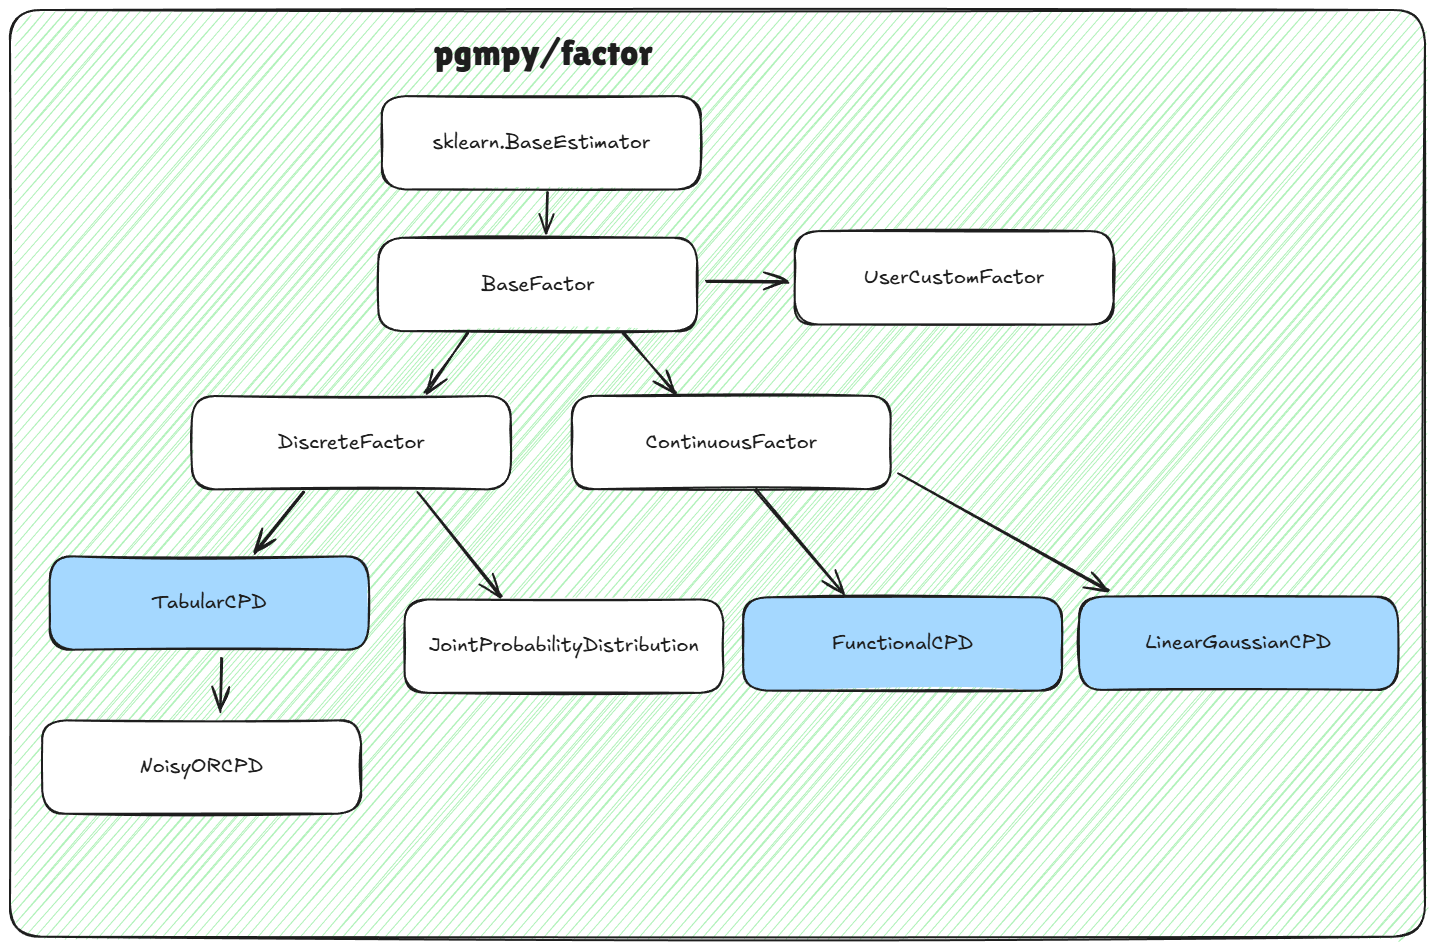
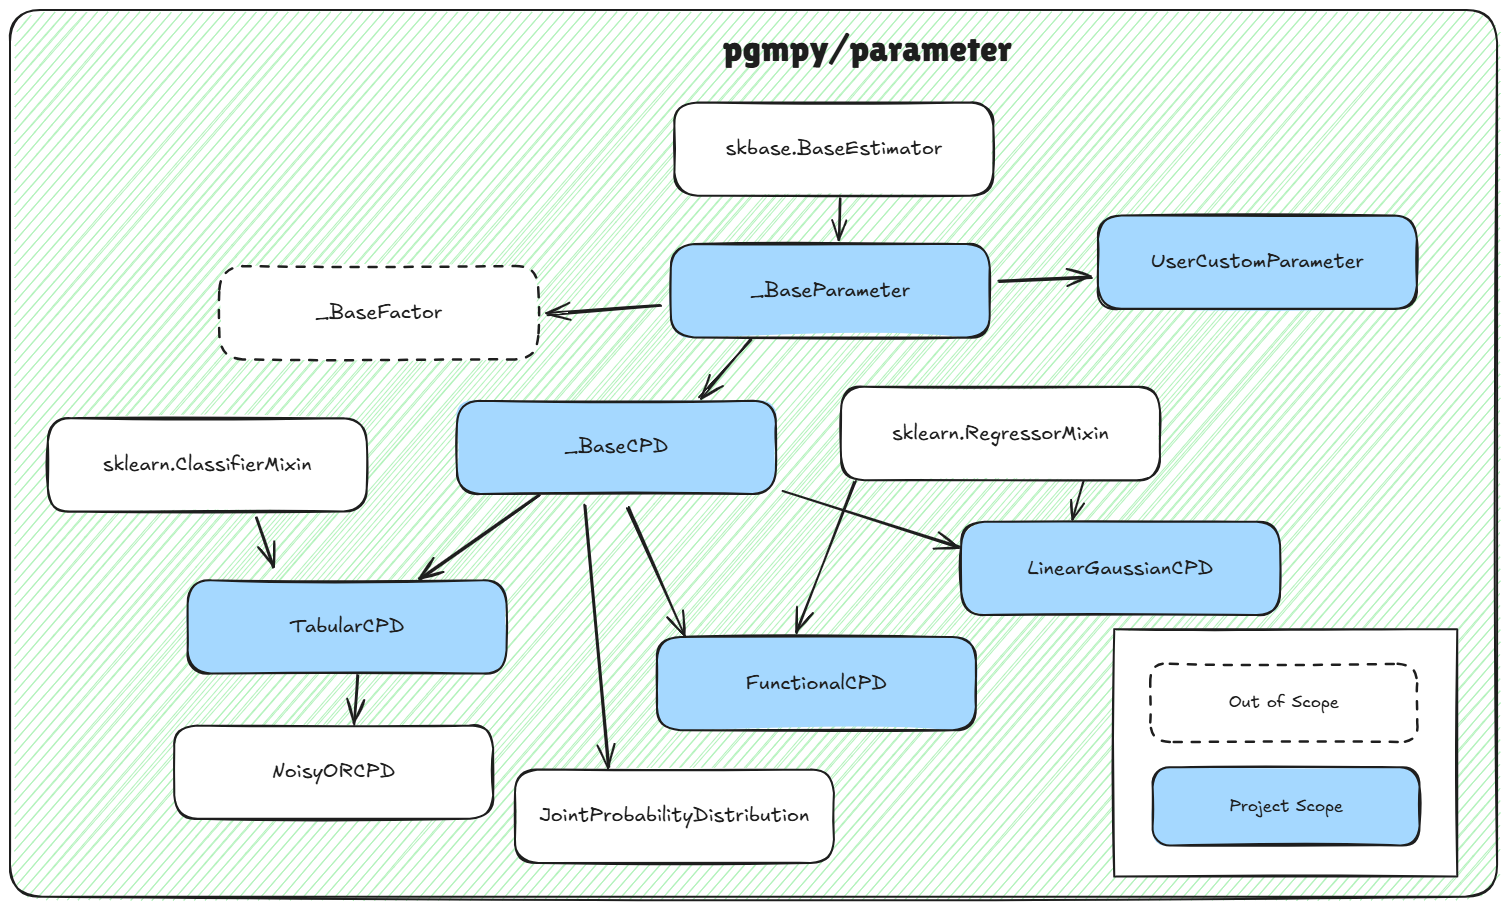
Update Proposal v3

diff --git a/2_Extending FunctionalCPD for Flexible Parameter Learning/[003]2_Extending FunctionalCPD for Flexible Parameter Learning.md b/2_Extending FunctionalCPD for Flexible Parameter Learning/[003]2_Extending FunctionalCPD for Flexible Parameter Learning.md
@@ -8,13 +8,13 @@ Contributors: @daehyun99
 
 ### summary
 
-![12](/2_Extending%20FunctionalCPD%20for%20Flexible%20Parameter%20Learning/99_Images/12.excalidraw.png)
+Starting with the conclusion and plan:
 
-Starting with the conclusion:
-* Implement `_FactorMixin` and improve internal compatibility between Factor and CPD by storing `factor` and `cpd` information in `self._factors`.
-* Have `BaseFactor` inherit from `skbase.BaseEstimator` to improve compatibility with skpro models.
-* Refactoring `TabularCPD`, `LineargaussianCPD`, `FunctionalCPD`
-* Implement `HybridEstimator` for fitting with sklearn, skpro model
+1. Implement `_ParameterMixin` and improve internal compatibility between Factor and CPD by storing `factor` and `cpd` information in `self._parameters`.
+2. Implement `_BaseParameter` inherit from `skbase.BaseEstimator` to improve compatibility with skpro models.
+3. Implement `paramter/TabularCPD`, `paramter/LineargaussianCPD`, `paramter/FunctionalCPD`
+4. Add warning message in `factors/TabularCPD`, `factors/LineargaussianCPD`, `factors/FunctionalCPD`
+5. Implement `HybridEstimator` for fitting with sklearn, skpro model.
 
 ### Introduction
 
@@ -35,71 +35,79 @@ Starting with the conclusion:
 
 ##### Proposed Solution
 
-1. Consider how to store factors, CPDs, and skpro models. (Implement `_FactorMixin`) <br>
+1. Consider how to store Factors, CPDs, and skpro models. (Implement `_ParameterMixin`) <br>
 2. Externally, consider compatibility with skpro models.<br>
-3. Consider the parameter learning way. (Implement `HybridEstimator`)
+3. Internally, consider compatibility with pyro.<br>
+4. Consider the parameter learning way. (Implement `HybridEstimator`)
 
 ##### Alternative Solutions && Additional Solutions
 
 - `dag.paramters.add(variable, cpd)` (`accessor` pattern, `component` pattern)
 
-#### 1. Consider how to store Factors, CPDs, and skpro models. (Implement `_FactorMixin`)
+#### 1. Consider how to store Factors, CPDs, and skpro models. (Implement `_ParameterMixin`)
+
+![12](/2_Extending%20FunctionalCPD%20for%20Flexible%20Parameter%20Learning/99_Images/12.excalidraw.png)
+
 ```
-factor <-> CPD <-> skpro, sklearn model
+factor <-> CPD <-> skpro model
 ```
 
 * Initially, I considered having each node store distribution information, similar to how a node has its role as an attribute. This seemed appropriate for Bayesian networks.
 * However, models such as `ClusterGraph`, `JunctionTree`, and `FactorGraph` use Factors instead of CPDs.
 * A Factor is a concept that includes CPDs and represents relationships among multiple nodes. Therefore, since a single Factor can have multiple variables, I thought it would not be conceptually appropriate for a single node to “have” a Factor.
-* Therefore, I propose creating a `_FactorMixin` class.
+* Therefore, I propose creating a `_ParameterMixin` class.
 
 ```python
-class _FactorMixin:
-    """ Wrapper class """
-    self._factors = dict(frozenset: FactorObject) # key: frozenset(variables), value: FactorObject
+class _ParameterMixin:
+    """ Store class of CPD, Factor """
+    self._parameters = dict(frozenset: FactorObject) # key: frozenset(variables), value: FactorObject
 
-    def _get_factors():
+    def _get_parameters():
         ...
 
-    def _get_factor(node: Hashable):
-        return self.factor[node]
-
-    def _add_factors(factors: Object):
+    def _get_parameter(node: Hashable):
         ...
 
-class ClustorGraph(UndirectGraph, _FactorMixin):
+    def _add_parameter(node, parameter):
+        ...
+
+class ClustorGraph(UndirectGraph, _ParameterMixin):
     def get_factors():
-        return self._get_factors()
-    def get_factor(variables, factor):
-        return self._get_factor(node)
-    def add_factors(factors: list[str, object]):
-        self._add_factors(factors)
+        return self._get_parameters()
 
-class BayesianNetwork(DAG, _FactorMixin):
+    def get_factor(node):
+        return self._get_parameter(node)
+
+    def add_factor(node, factor):
+        self._add_parameters(node, factor)
+
+class BayesianNetwork(DAG, _ParameterMixin):
     def get_cpds():
-        return self._get_factors()
-    def get_cpd(variable, cpd):
-        return self._get_factor(node)
-    def add_cpds(cpds: list[str, object]):
-        self._add_factors(cpds)
+        return self._get_parameters()
+
+    def get_cpd(node):
+        return self._get_parameter(node)
+
+    def add_cpd(node, cpd):
+        self._add_parameters(node, cpd)
 
 ```
 
-* When a method for adding CPDs or Factors is executed in each model, the Factor, CPD, or skpro model class is stored in `self._factors`. This is the same as the previous approach of storing them in `self.cpds` or `self.factors` in each model.
-* The reason `self._factors` is a `dictionary` is to preserve order and provide fast lookup.
+* When a method for adding CPDs or Factors is executed in each model, the Factor, CPD, or skpro model class is stored in `self._parameters`. This is the same as the previous approach of storing them in `self.cpds` or `self.factors` in each model.
+* The reason `self._parameters` is a `dictionary` is to preserve order and provide fast lookup.
 * With this approach, users can continue to use existing APIs such as `BN.get_cpds()` and `JunctionTree.add_factors()`, while also avoiding unnecessary feature development.
 * In addition, by unifying the storage method, internal compatibility between Factors and CPDs is improved.
 
 #### 2. Externally, compatibility with skpro models should be considered.
 
-* `BaseFactor` should be inherit from `sklearn.BaseEstimator`.
+* `_BaseParameter` should be inherit from `skbase.BaseEstimator`.
 
 ![10](/2_Extending%20FunctionalCPD%20for%20Flexible%20Parameter%20Learning/99_Images/10.excalidraw.png)
 
 
 ```python
 # pgmpy/factor/
-class _BaseFactor(skbase.BaseEstimator):
+class _BaseParameter(skbase.BaseEstimator):
     def __init__():
         self.factor_ = None
         
@@ -109,7 +117,7 @@ class _BaseFactor(skbase.BaseEstimator):
     def predict_proba():
         self._predict_proba()   
 
-class TabularCPD, LinearGaussianCPD, FunctionalCPD(_BaseFactor): # TabularCPD can inherit from DiscreteFactor later.
+class TabularCPD, LinearGaussianCPD, FunctionalCPD(_BaseParameter): # TabularCPD can inherit from DiscreteFactor later.
     _tags = {...}
     def __init__(self):
         ...
@@ -134,9 +142,20 @@ class TabularCPD, LinearGaussianCPD, FunctionalCPD(_BaseFactor): # TabularCPD ca
 
 ```
 
-#### 3. Consider the parameter learning way. (Implement `HybridEstimator`)
+#### 3. Internally, consider compatibility with pyro.
+
+> We might need to temporarily remove it and come up with a way to allow users to specify pyro models.
+
+I think this approach would be preferable.
+If we use `FunctionalCPD` in a Hybrid BayesianNetwork, there should be no major difficulty in parameter_learning, even with a `pyro`-based implementation.
+However, considering compatibility and maintainability with the `inference`, `intervene`, and `counterfactual` algorithms we plan to develop later, a `pyro`-style syntax could reduce maintainability.
+
+I think `FunctionalCPD` should not be based on `pyro`. should be based on `skpro.distribution`.
+Instead, to support the future use of `pyro`’s `SVI` and `MCMC`, I suggest Implementing `SVIEstimator` and `MCMCEstimator`, and adding a `to_pyro()` method to each CPD class(`TabularCPD`, `LinearGaussianCPD`, `FunctionalCPD`).
+
+#### 4. Consider the parameter learning way. (Implement `HybridEstimator`)
 * Previously, I considered storing `estimator` information together as node attributes.
-* However, pgmpy follows a strategy-pattern-oriented approach, and `estimator` information is held by dedicated parameter learning estimators such as `DiscreteMLE`.
+* However, `estimator` information is held by dedicated parameter learning estimators such as `DiscreteMLE`.
 * Therefore, my proposal is to implement a `HybridEstimator` class and specify the learning method for each `variable` through a `config`.
 * `HybridEstimator` is responsible only for orchestrating learning based on the `config` information.
 
@@ -156,43 +175,63 @@ est.fit(model, data, est_config)
 ### Details of proposed solution
 ✨: Optional(Nice to have)
 
-#### `_FactorMixin`
+#### `_ParameterMixin`
 | Method | Input | Return |
 | - | - | - |
-| `_get_factor()` | `variable` | `factor` or `CPD`'s info |
-| `_add_factor()` | `variable`<br> `factor` | - |
-| `_remove_factor()` | `variable` | - |
-| `_get_factors()` | - | All `factor` or `CPD`'s info |
-| `_add_factors()` | `list[variable, factor]` | - |
-| `_remove_factors()` | `list[variable, factor]` | - |
+| `_get_parameter()` | `node` | `factor` or `CPD`'s info |
+| `_get_parameters()` | - | All `parameter` or `CPD`'s info |
+| `_add_parameter()` | `node`,<br> `parameter` | - |
+| `_add_parameters()` | `list[node, parameter]` | - |
+| `_remove_parameter()` | `node` | - |
+| `_remove_parameters()` | `list[node, parameter]` | - |
 
-#### `_BaseFactor`
+#### `_BaseParameter(skbase.BaseEstimator)`
 | Method | Input | Return |
 | - | - | - |
 | `__init__()` | - | - |
-| `fit()` | `X: pd.DataFrame` | `y: pd.DataFrame` |
-| `predict_proba()` | `X: pd.DataFrame` | `pgmpy/Distribution` |
+| `fit()` | `X: pd.DataFrame` | - |
+| `predict()` | `X: pd.DataFrame` | `y: np.ndarray` |
+| `predict_proba()` | `X: pd.DataFrame` | `y: list[np.ndarray]` |
+| `predict_log_proba()` | `X: pd.DataFrame` | `y: list[np.ndarray]` |
+| `sample()` | `X: pd.DataFrame` | `y: list[np.ndarray]` |
+| `from_values()` | - | - |
+| `get_tag()` | `name: str`,<br>`default: Any` | tag's info |
 
-#### `TabularCPD`
+#### `TabularCPD(_BaseParameter, ClassifierMixin)`
 | Method | Input | Return |
 | - | - | - |
 | `__init__()` | - | - |
-| `fit()` | `X: pd.DataFrame` | `y: pd.DataFrame` |
-| `predict_proba()` | `X: pd.DataFrame` | `pgmpy/Distribution` |
+| `fit()` | `X: pd.DataFrame` | - |
+| `predict()` | `X: pd.DataFrame` | `y: np.ndarray` |
+| `predict_proba()` | `X: pd.DataFrame` | `y: list[np.ndarray]` |
+| `predict_log_proba()` | `X: pd.DataFrame` | `y: list[np.ndarray]` |
+| `sample()` | `X: pd.DataFrame` | `y: list[np.ndarray]` |
+| `from_values()` | - | - |
+| `get_tag()` | `name: str`,<br>`default: Any` | tag's info |
 
-#### `LinearGaussianCPD`
+#### `LinearGaussianCPD(_BaseParameter, RegressorMixin)`
 | Method | Input | Return |
 | - | - | - |
 | `__init__()` | - | - |
-| `fit()` | `X: pd.DataFrame` | `y: pd.DataFrame` |
-| `predict_proba()` | `X: pd.DataFrame` | `pgmpy/Distribution` |
+| `fit()` | `X: pd.DataFrame` | - |
+| `predict()` | `X: pd.DataFrame` | `y: np.ndarray` |
+| `predict_proba()` | `X: pd.DataFrame` | `y: list[np.ndarray]` |
+| `predict_log_proba()` | `X: pd.DataFrame` | `y: list[np.ndarray]` |
+| `sample()` | `X: pd.DataFrame` | `y: list[np.ndarray]` |
+| `from_values()` | - | - |
+| `get_tag()` | `name: str`,<br>`default: Any` | tag's info |
 
-#### `FunctionalCPD`
+#### `FunctionalCPD(_BaseParameter, RegressorMixin)`
 | Method | Input | Return |
 | - | - | - |
 | `__init__()` | - | - |
-| `fit()` | `X: pd.DataFrame` | `y: pd.DataFrame` |
-| `predict_proba()` | `X: pd.DataFrame` | `pgmpy/Distribution` |
+| `fit()` | `X: pd.DataFrame` | - |
+| `predict()` | `X: pd.DataFrame` | `y: np.ndarray` |
+| `predict_proba()` | `X: pd.DataFrame` | `y: list[np.ndarray]` |
+| `predict_log_proba()` | `X: pd.DataFrame` | `y: list[np.ndarray]` |
+| `sample()` | `X: pd.DataFrame` | `y: list[np.ndarray]` |
+| `from_values()` | - | - |
+| `get_tag()` | `name: str`,<br>`default: Any` | tag's info |
 
 #### `HybridEstimator`
 | Method | Input | Return |
@@ -245,3 +284,7 @@ infer = Inference(model)
 infer.query()
 
 ```
+
+### Potentional Next Steps
+- Implement `LikelihoodWeighting`
+- Merge several BayesianNetwork and Implement single `BayesianNetwork`